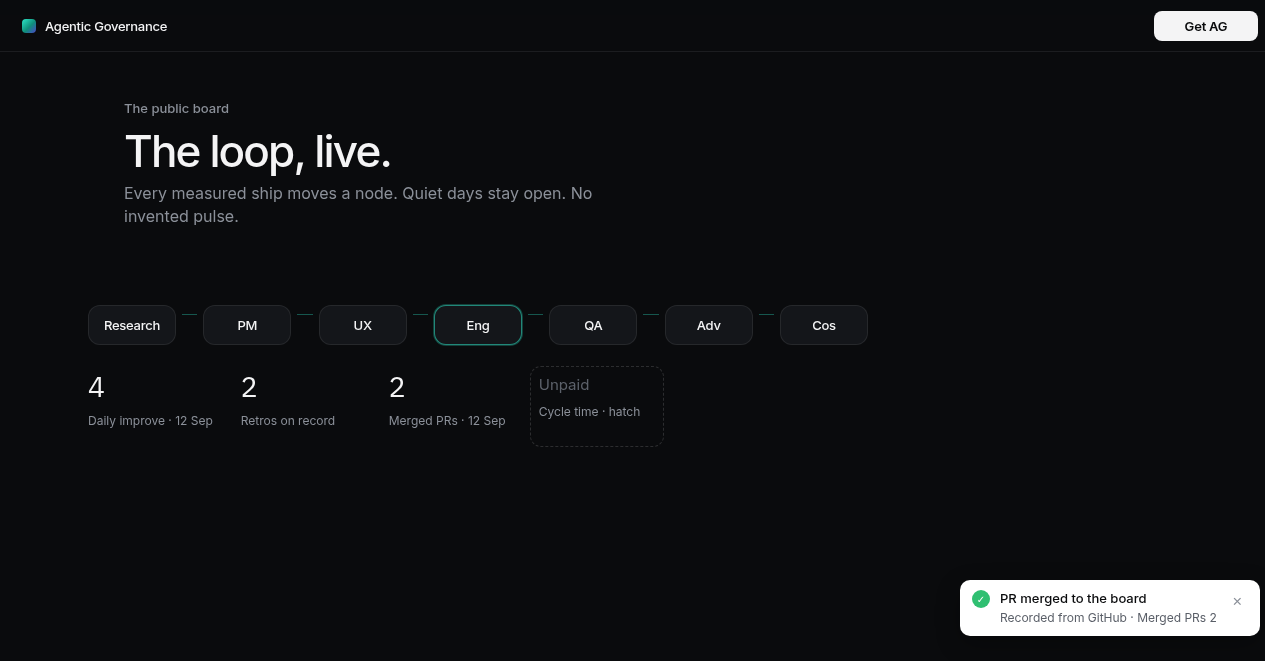
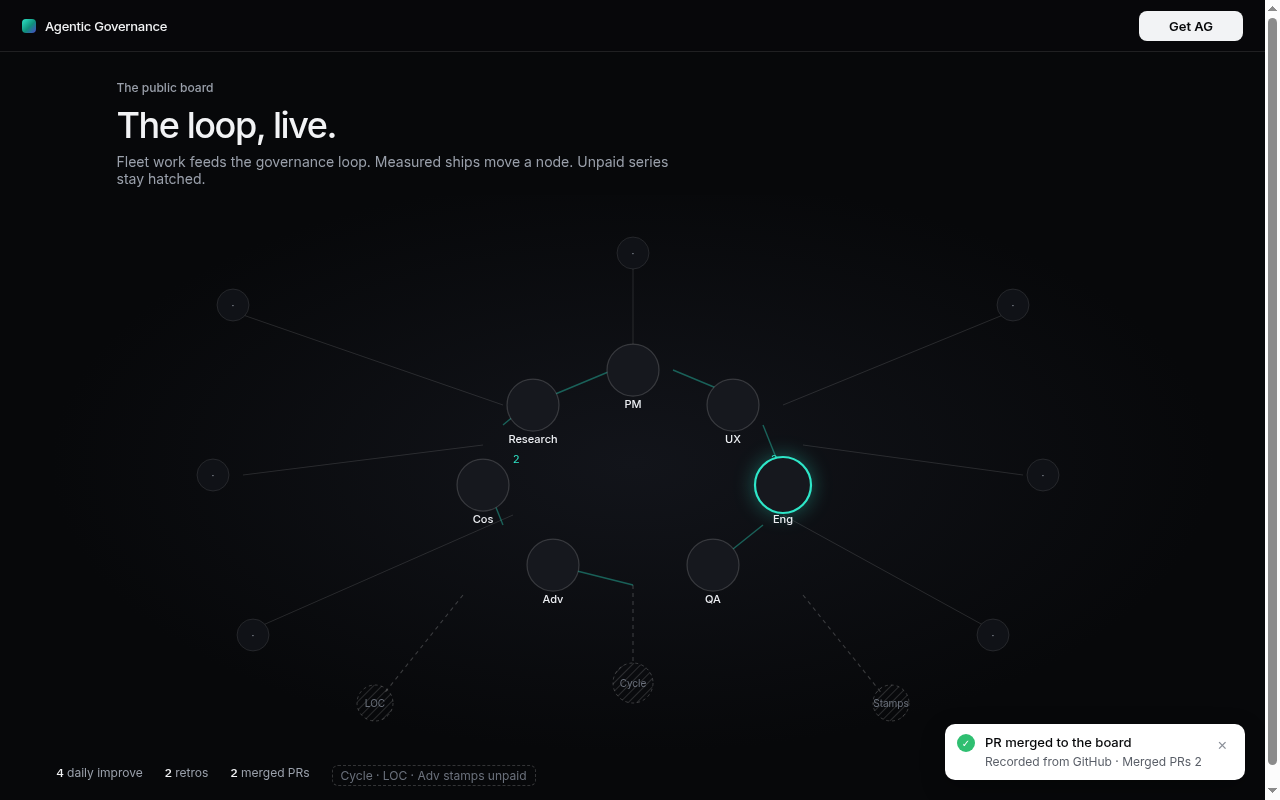
UX: #29 fleet-to-loop graph stills (not pill row)
Cos FAIL d1be7bb: replace seat stepper with nodes/edges/fleet feeds. Hatched unpaid Cycle/LOC/Stamps (no invented numbers). Inspect = zoom on canvas. Admin = named fleet dashboard, no Get AG. Honesty 4/2/2 + toast stays 2. Cite #28 @ f3865f0.

diff --git a/dashboard/docs/ux/qa/visual-qa-graph.md b/dashboard/docs/ux/qa/visual-qa-graph.md
@@ -20,3 +20,5 @@
 ## FAIL
 
 Layout-shift on graph stage. Chrome inconsistency public↔admin (except names + Get AG). Hick: second Get AG on admin. Invented nodes or stamp counts. Force-graph toy / Grafana. Fake idle pulse.
+
+**Retip after Cos FAIL 8da2c43:** not a pill row. SVG graph: loop nodes+edges, 7 anonymized fleet feeds, hatched unpaid Cycle/LOC/Stamps (no invented numbers). Inspect = zoom on canvas. Admin = same graph with names.
